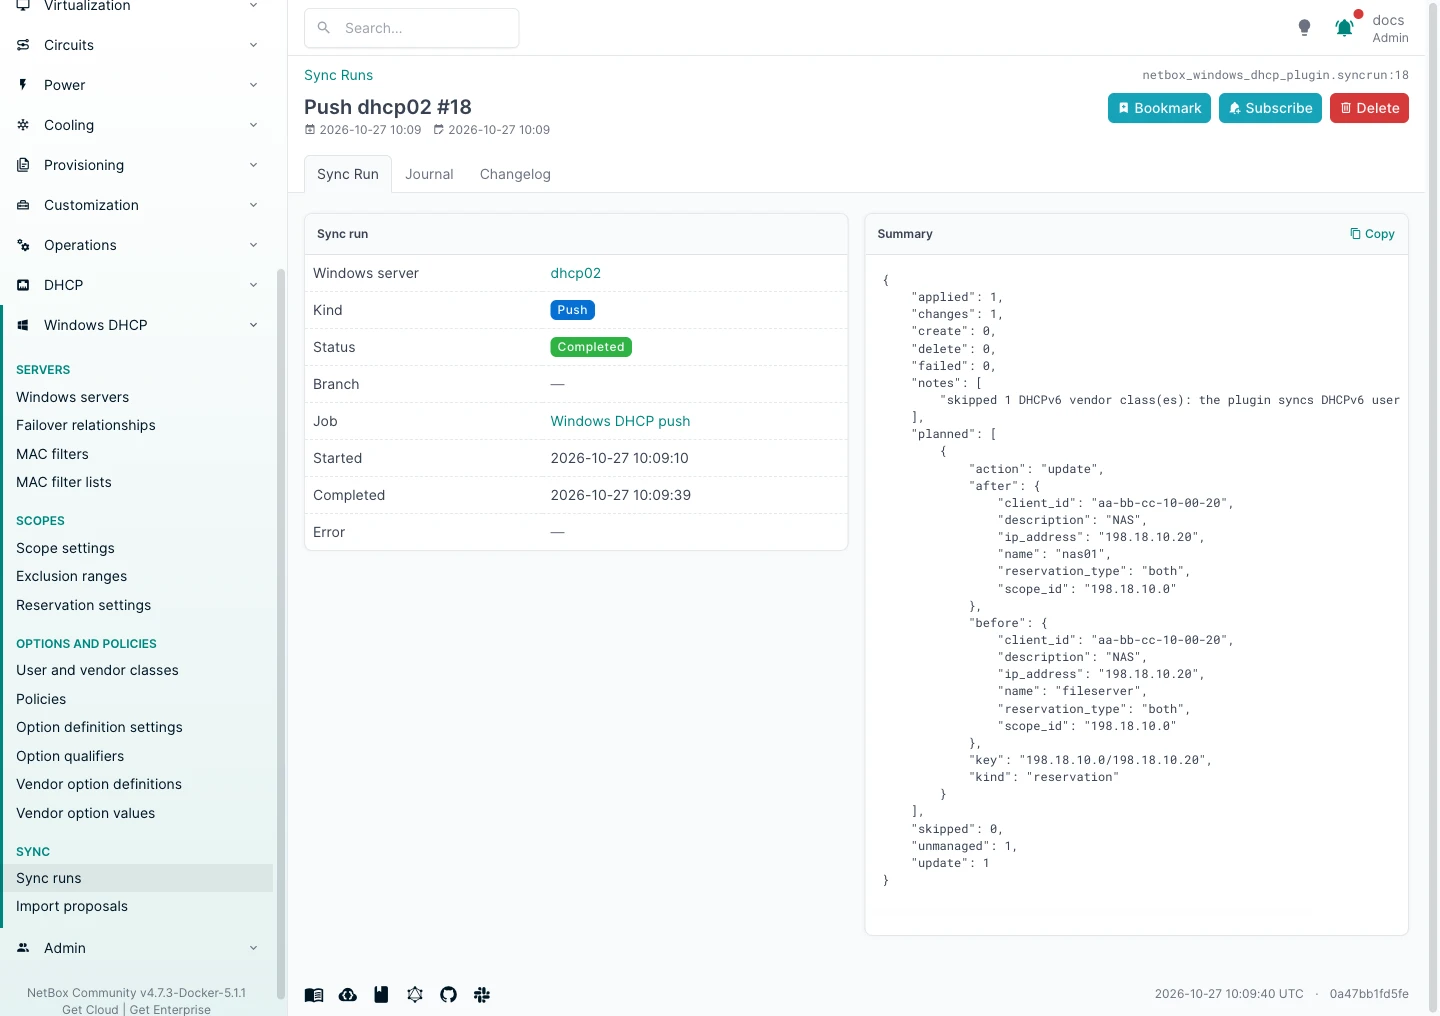
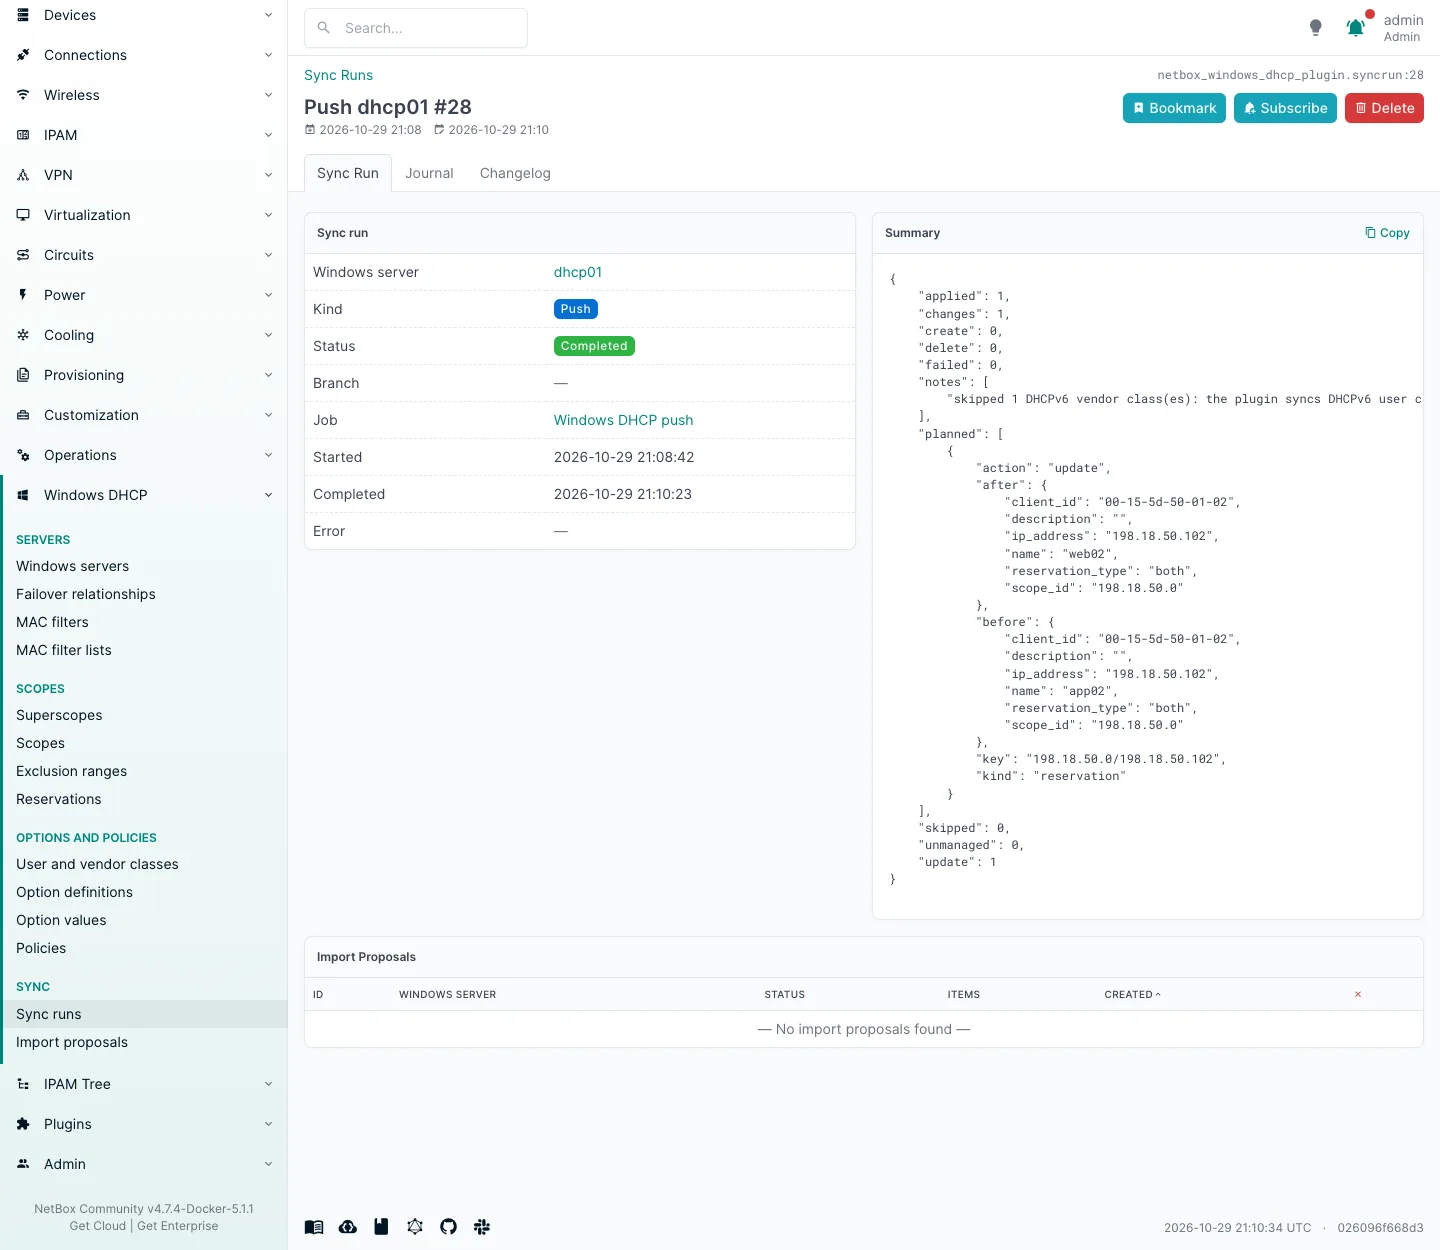
docs: retake every NetBox screenshot on 0.2.0
Taken on a fresh Windows Server 2025 lab: the lab NetBox (no branching) for the quickstart, scope, reservation,
failover, import and troubleshooting pages, and the dev stack pointed at the lab servers for branching and change
control. The scope example moves to 198.18.70.0/24 (the lab seed uses 198.18.40.0/24), the screenshots removed for
showing netbox-plugin-dhcp forms are back, and the troubleshooting example quotes what Windows Server 2025 says.

Claude-Session: https://claude.ai/code/session_01HqtbCCyb37gUiwM415PCsD

diff --git a/docs/push.md b/docs/push.md
@@ -25,11 +25,14 @@ A push queued while another for the same server is still waiting to start is not
 the latest NetBox data anyway.
 
 With netbox-branching, edit inside a branch, then merge it (after approval, with change control). The merge queues
-the push, and its sync run names the branch:
+the push, and its sync run names the branch. Here the branch `rename-nas` renames the reservation `app01` to `nas01`:
 
-![Merging the branch: one pending change, commit ticked](images/branching-merge.webp)
+![Editing reservation 198.18.50.101 inside the branch rename-nas: the branch selector at the top shows the active
+branch](images/branching-edit-in-branch.webp)
 
-![The push the merge queued: branch rename-nas, one change applied](images/branching-push-after-merge.webp)
+![Merging the branch rename-nas: one pending update, commit ticked](images/branching-merge.webp)
+
+![The push the merge queued: branch rename-nas, one reservation updated](images/branching-push-after-merge.webp)
 
 ## Dry run
 
@@ -42,29 +45,41 @@ reason). It works with sync disabled, so it is the way to check a server before 
 A Windows scope is a plugin **Scope** pointing at a prefix and, for IPv4, an IP range, as
 [How objects map](mapping.md#scopes-ipv4) describes. To add one to `dhcp01`:
 
-1. **IPAM**: the prefix (`198.18.40.0/24`) and the IP range the scope hands out (`198.18.40.100` to
-   `198.18.40.200`). Create them in IPAM first, or from the scope form in the next step: the **+** button next to
+1. **IPAM**: the prefix (`198.18.70.0/24`) and the IP range the scope hands out (`198.18.70.100` to
+   `198.18.70.200`). Create them in IPAM first, or from the scope form in the next step: the **+** button next to
    the prefix and IP range fields opens NetBox's own form in a pop-up and selects the new object. The pop-up does
    not know the prefix chosen in the scope form, so type the range's start and end with the prefix's mask; a range
    outside the prefix is refused when the scope is saved.
 2. **Windows DHCP > Scopes > Add**: the server, the prefix and the IP range. The **name** is the Windows scope name
-   (`VLAN40-Office`), the **description** its Windows description, and the **lease duration** (seconds) its lease
+   (`VLAN70-Office`), the **description** its Windows description, and the **lease duration** (seconds) its lease
    duration; state, type and the other settings default to what Windows gives a new scope.
 
+    ![A new scope for dhcp01: name VLAN70-Office, prefix 198.18.70.0/24, IP range 198.18.70.100-200, description,
+    lease duration 691200 seconds (8 days)](images/scope-1-subnet-form.webp)
+
 3. **Windows DHCP > Option values > Add** for scope options: the server, the scope, the code and the value, for
-   example the router (code 3, value `["198.18.40.1"]`: the value is a list).
+   example the router (code 3, value `["198.18.70.1"]`: the value is a list).
+
+    ![A new option value: server dhcp01, IPv4, code 3, value ["198.18.70.1"], set on the scope
+    dhcp01/198.18.70.0](images/scope-3-option-form.webp)
 
 4. **Windows DHCP > Reservations > Add** for reservations: the scope, the IP address and MAC address objects (the
    **+** buttons create them in place), and the **name**, which is the Windows reservation name.
 
+    ![A new reservation in the scope: IP address 198.18.70.20, name printer02, MAC address
+    02:4E:42:70:00:20](images/scope-4-reservation-form.webp)
+
 5. **Windows DHCP > Exclusion ranges > Add** for what Windows should not hand out.
 
-    ![A new exclusion range in the scope: 198.18.40.150 to 198.18.40.159](images/scope-5-exclusion-form.webp)
+    ![A new exclusion range in the scope: 198.18.70.150 to 198.18.70.159](images/scope-5-exclusion-form.webp)
 
 6. **Dry run** on the Windows server shows what the push will create; then **Sync now** (or, with sync enabled, just
    wait: each save queues a push).
 
-    ![The dry run: the scope, the exclusion range, the reservation and two options to create](images/scope-6-dry-run.webp)
+    ![The dry run: the scope, the exclusion range, the reservation and two scope options (router and DNS servers)
+    to create](images/scope-6-dry-run.webp)
+
+    ![The push: completed, the same five changes applied](images/scope-7-push.webp)
 
     If Windows refuses a change, the push applies the others and the sync run names the refused one (see
     [Troubleshooting](troubleshooting.md#push)); fix it in NetBox and the next push sends it.

diff --git a/docs/reservations.md b/docs/reservations.md
@@ -41,6 +41,9 @@ reservations (see [DHCPv6](dhcpv6.md)). Windows matches a reservation on its cli
 MAC address or a client ID (one of the two), and a DHCPv6 one a DUID and an IAID: NetBox refuses to save it without
 them. A scope holds one reservation per IP address.
 
+![The reservation form: server dhcp01, scope dhcp01/198.18.60.0, IP address 198.18.60.20, name printer01, MAC
+address 02:4E:42:60:00:20, type Both](images/reservation-form.webp)
+
 Saving queues a push to the Windows server. Its sync run (**Windows DHCP > Sync runs**, or the **Sync runs** table
 on the Windows server) lists what it planned and applied: one reservation created, with type `both`, the default.
 
@@ -60,11 +63,17 @@ printer01](images/reservation-windows-console.webp)
 Windows reservations answer DHCP clients, BOOTP clients or both. The reservation's **Type** says which;
 **Both** is the Windows default. To change it, edit the reservation and pick the type:
 
+![The IPv4 client part of the reservation's edit form: MAC address 02:4E:42:60:00:20, no client ID, type
+DHCP](images/reservation-windows-settings.webp)
+
 ## Reservation options
 
 Option values on a reservation override the scope and server values for that one client. **Windows DHCP > Option
 values > Add**: the server, the address family, the code, the value as a list of strings and, under **Set on**, the
-reservation (its scope is filled in from it). Here option 15 (DNS domain name), value `["print.example.com"]`.
+reservation (its scope is filled in from it). Here option 15 (DNS domain name), value `["print.example.com"]`:
+
+![A new option value: server dhcp01, IPv4, code 15, value ["print.example.com"], set on the reservation
+198.18.60.20](images/reservation-option-form.webp)
 
 Here the two saves above went out in one push, as saves made close together do: the reservation updated from `both`
 to `dhcp`, and the option value created on it.
@@ -122,7 +131,7 @@ In this example a second reservation, `camera01` at `198.18.60.21`, was created 
 `handmade01` at `198.18.60.30`, was added on Windows with `Add-DhcpServerv4Reservation`. Deleting `camera01` in
 NetBox gave this push:
 
-![The sync run of the delete: one reservation deleted, camera01 at 198.18.60.21; 16 unmanaged objects
+![The sync run of the delete: one reservation deleted, camera01 at 198.18.60.21; one unmanaged object (handmade01)
 left alone](images/reservation-delete-push.webp)
 
 `camera01` is gone from Windows; `handmade01` stays:

diff --git a/docs/import.md b/docs/import.md
@@ -110,11 +110,14 @@ opened (see [Permissions](permissions.md)).
 Once the job has finished, the **Import** panel on the server page links the branch, its change request and the sync
 run, and says that main has not changed:
 
-![The Import panel after an import into a branch: 39 differences, the branch, change request CR1 and the sync
-run](images/branching-import-panel.webp)
+![The Import panel after an import into a branch: 78 differences imported into a new branch, main not changed,
+the branch, change request CR3 and the sync run](images/branching-import-panel.webp)
 
 The branch's **Diff** tab lists every object the import created, changed or deleted. Review it there, then merge it
 (through the change request, with netbox-change-control):
+
+![The Diff tab of the import branch: the objects the import created, from classes to failover relationships and MAC
+filters](images/branching-diff.webp)
 
 ![The change request of an import, approved by a reviewer and ready to merge](images/branching-change-request.webp)
 
@@ -130,8 +133,8 @@ On a proposal you can:
 - select items in the list and **Apply selected** or **Dismiss selected**;
 - open one item and **Apply** or **Dismiss** it.
 
-![One proposal item: create reservation 198.18.10.0/198.18.10.20, with what NetBox holds (nothing yet) and what
-Windows holds](images/import-proposal-item.webp)
+![One proposal item: create reservation 198.18.60.0/198.18.60.30 (handmade01, made by hand on Windows), with what
+NetBox holds (nothing yet) and what Windows holds](images/import-proposal-item.webp)
 
 Proposals and items are written by the import, so they cannot be added or edited by hand; they can be deleted.
 

diff --git a/docs/troubleshooting.md b/docs/troubleshooting.md
@@ -70,10 +70,14 @@ belongs to the server (through its scope, for reservations and exclusion ranges)
 see [what a push will not do](push.md#what-a-push-will-not-do).
 
 **The push failed on one change.** The sync run's **Error** names the change and the cmdlet's message, and the summary
-lists it under `errors`; the other changes were applied. Here Windows refused a policy with an FQDN condition that also
-sets an ordinary option value (DHCP 20135 or 20136, see
-[Limitations](limitations.md#windows-rules-the-plugin-will-not-work-around)): fix the policy in NetBox and the next push
-sends it.
+lists it under `errors`; the other changes were applied. Here a new policy with an FQDN condition went to Windows,
+but the option value set on it did not: Windows does not allow ordinary option values on such a policy (see
+[Limitations](limitations.md#windows-rules-the-plugin-will-not-work-around)), and Windows Server 2025 only says
+"Failed to set option values" (`InvalidOperation`) rather than naming DHCP 20136. Fix the policy or the value in
+NetBox and the next push sends it.
+
+![A failed push: policy Kiosks-FQDN created, its option 15 value refused with Set-DhcpServerv4OptionValue: Failed to
+set option values on DHCP server dhcp01 (InvalidOperation)](images/troubleshooting-failed-push.webp)
 
 The usual reasons a change is in `not_pushed`:
 

diff --git a/docs/ROADMAP.md b/docs/ROADMAP.md
@@ -97,7 +97,7 @@ netbox-plugin-dhcp (latest 0.1.1, 2026-10-29).
    - **Done:** migration and query-count baselines regenerated.
    - **Docs (2026-10-29):** every page checked against the code; the screenshots of netbox-plugin-dhcp forms removed,
      the read-only ones retaken on 0.2.0.
-   - **Left before 0.2.0:** retake the remaining 0.1.x-era screenshots (walkthrough forms, failover, branching,
-     sync runs).
+   - **Screenshots (2026-10-29):** every NetBox screenshot retaken on 0.2.0 against the fresh lab (lab NetBox without
+     branching; branching and change control from the dev stack pointed at the lab servers).
    - **Lab (2026-10-29):** fresh Windows Server 2025 lab, plugin 1a2108a: `make test-lab` 31 passed, `make lab-e2e`
      passed (failover phase included), seeded import of both servers applied with dry runs at 0 changes.

diff --git a/CHANGELOG.md b/CHANGELOG.md
@@ -38,6 +38,8 @@ The plugin is standalone: it no longer needs netbox-plugin-dhcp. This is a fresh
 
 ### Added
 
+- Documentation: every NetBox screenshot retaken on 0.2.0 (Windows Server 2025 lab), and the step-by-step pages
+  (new scope, reservations, failover, branching) walk through the 0.2.0 forms.
 - Lease durations, DHCPv6 lifetimes and T1/T2 show in days next to the seconds on scope and policy pages, for
   example `28800 (0.33 days)`.
 - A Windows server can be linked to the device or virtual machine it runs on, and that device or virtual machine's

diff --git a/docs/failover.md b/docs/failover.md
@@ -155,7 +155,7 @@ From now on, edit the scope on the primary in NetBox. A new reservation, `scanne
 scope `dhcp01/198.18.60.0`, was pushed to DHCP01 and the scope replicated to DHCP02 in the same job:
 
 ![The push job log: Replicated 1 scope(s) to the partner of dhcp01-dhcp02; Push to dhcp01.example.com: changed 1
-object(s)](images/failover-replication-log.webp)
+of 1 object(s)](images/failover-replication-log.webp)
 
 DHCP02 has both reservations without NetBox writing to it:
 

diff --git a/docs/quickstart.md b/docs/quickstart.md
@@ -83,8 +83,8 @@ reservation (**Windows DHCP > Reservations**):
 
 The push's sync run lists what it applied, with the values before and after:
 
-![The sync run of the push: one reservation updated, its name from fileserver to
-nas01](images/quickstart-6-push.webp)
+![The sync run of the push: one reservation updated, its name from app02 to
+web02](images/quickstart-6-push.webp)
 
 Check on Windows:
 
